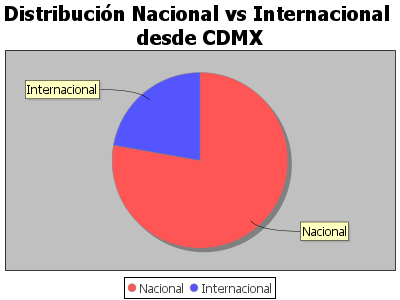
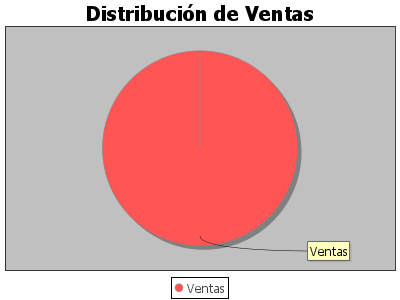
configuraciones nuevas

Changed region(s): [[0.0, 0.0, 0.99, 0.87], [0.3, 0.9, 0.69, 1.0], [0.33, 0.72, 0.36, 0.75]]

diff --git a/src/Controller/Seleccion_modificacion_usuario_no_registrado_controller.java b/src/Controller/Seleccion_modificacion_usuario_no_registrado_controller.java
@@ -57,7 +57,7 @@ public class Seleccion_modificacion_usuario_no_registrado_controller implements 
 
         if (e.getSource() == vista.continuar) {
 
-            String verify_correo = ".+@gmail\\.com$";
+            String verify_correo = "^[A-Za-z0-9]+([._%+-]?[A-Za-z0-9]+)*@[A-Za-z0-9.-]+\\.[A-Za-z]{2,}$";
 
             if (!vista.Codigo_ticket.getText().isEmpty() || !vista.Nombre_usuario.getText().isEmpty() || !vista.Numero_documento.getText().isEmpty() || !vista.Correo_electronico.getText().isEmpty()) {
 
@@ -126,7 +126,7 @@ public class Seleccion_modificacion_usuario_no_registrado_controller implements 
             }
 
             if (dos < 1) {
-                JOptionPane.showMessageDialog(vista, "El nombre no esta registrado en el sistema");
+                JOptionPane.showMessageDialog(vista, "El nombre y apellido no estan registrados en el sistema");
             }
 
             if (tres < 1) {

diff --git a/src/Controller/Registro_controller.java b/src/Controller/Registro_controller.java
@@ -174,14 +174,14 @@ public class Registro_controller implements ActionListener {
         if (correo.contains(" ")) {
             return false;
         }
-        return correo.matches("^[A-Za-z0-9._%+-]+@[A-Za-z0-9.-]+\\.[A-Za-z]{2,}$");
+        return correo.matches("^[A-Za-z0-9]+([._%+-]?[A-Za-z0-9]+)*@[A-Za-z0-9.-]+\\.[A-Za-z]{2,}$");
     }
 
     private boolean validarDocumento(String documento) {
         if (documento == null || documento.isEmpty()) {
             return false;
         }
-        return documento.matches("^[1-9][0-9]{7,17}$");
+         return documento.matches("^[A-Za-z0-9]{8,18}$");
     }
 
     

diff --git a/src/Controller/Datos_y_pago_controller.java b/src/Controller/Datos_y_pago_controller.java
@@ -352,7 +352,7 @@ public class Datos_y_pago_controller implements ActionListener{
                                 "Un numero de celular sin codigo de pais Ej:(+57) debe tener 10 digitos", "Numero de telefonos invalido", JOptionPane.WARNING_MESSAGE);
         }
         
-        if(correoCorrecto(correo)){
+        if(correo.matches("^[A-Za-z0-9]+([._%+-]?[A-Za-z0-9]+)*@[A-Za-z0-9.-]+\\.[A-Za-z]{2,}$")){
             puntos++;
         }else{
             JOptionPane.showMessageDialog(vista,
